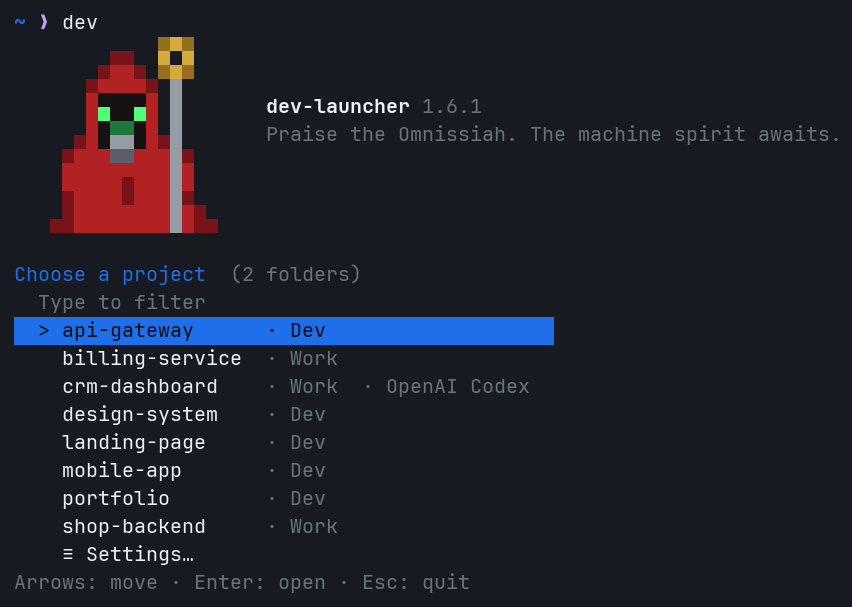
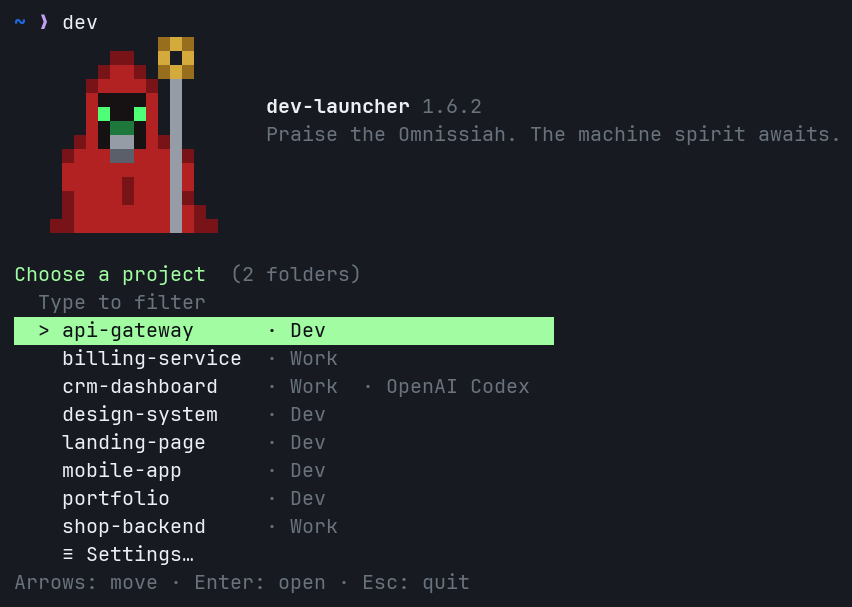
Color del menu: nuevo tema rojo y verde por defecto
Verde combina con los ojos de la mascota. Quien ya eligio un color lo conserva.
GIFs y capturas regenerados.

Changed region(s): [[0.0, 0.5041, 0.6714, 0.5931], [0.0305, 0.4448, 0.2441, 0.4745]]

diff --git a/lib/ajustes.js b/lib/ajustes.js
@@ -5,7 +5,7 @@
 
 const { MODOS, todosLosAgentes } = require('./agents');
 const cfg = require('./config');
-const { color, TEMAS, aplicarTema, menu, preguntar, selectorCarpetaNativo, abrirEnNavegador } = require('./ui');
+const { color, TEMAS, TEMA_POR_DEFECTO, aplicarTema, menu, preguntar, selectorCarpetaNativo, abrirEnNavegador } = require('./ui');
 const { t, fijarIdioma, detectarIdioma, idiomaActual, IDIOMAS, NOMBRES } = require('./i18n');
 const act = require('./actualizar');
 const pkg = require('../package.json');
@@ -165,7 +165,7 @@ async function menuConfiguracion(config) {
       { label: t('config.carpetas'), value: 'carpetas', hint: t('n.vinculadas', { n: config.carpetas.length }) },
       { label: t('config.agente'), value: 'agente', hint: agentes[config.agente].nombre },
       { label: t('config.modo'), value: 'modo', hint: textoModo(config.modo) },
-      { label: t('config.color'), value: 'color', hint: t('tema.' + (TEMAS[config.color] ? config.color : 'cian')) },
+      { label: t('config.color'), value: 'color', hint: t('tema.' + (TEMAS[config.color] ? config.color : TEMA_POR_DEFECTO)) },
       { label: t('config.orden'), value: 'orden', hint: t('orden.' + (config.orden || 'alfabetico')) },
       { label: t('config.idioma'), value: 'idioma', hint: textoIdioma(config) },
       { label: t('config.mascota'), value: 'mascota', hint: textoMascota(config) },
@@ -271,12 +271,12 @@ async function menuModo(config) {
 }
 
 async function menuColor(config) {
-  const actual = TEMAS[config.color] ? config.color : 'cian';
+  const actual = TEMAS[config.color] ? config.color : TEMA_POR_DEFECTO;
   const ids = Object.keys(TEMAS);
   const items = ids.map((id) => ({
     label: t('tema.' + id),
     value: id,
-    hint: id === 'cian' ? t('color.porDefecto') : id === 'sobrio' ? t('color.sobrio') : undefined,
+    hint: id === TEMA_POR_DEFECTO ? t('color.porDefecto') : id === 'sobrio' ? t('color.sobrio') : undefined,
   }));
   const id = await menu({
     titulo: t('color.titulo'),

diff --git a/lib/ui.js b/lib/ui.js
@@ -12,16 +12,19 @@ const usarColor = out.isTTY && !process.env.NO_COLOR;
 const c = (code) => (s) => (usarColor ? `\x1b[${code}m${s}\x1b[0m` : String(s));
 // Temas del menu: color de titulos (acento) y de la opcion seleccionada.
 // Texto negro sobre el color, y azul/magenta en sus tonos brillantes: en unas terminales esos
-// colores son oscuros y en otras pastel, y asi se leen bien en ambas.
+// colores son oscuros y en otras pastel, y asi se leen bien en ambas (igual el rojo).
+// El primero es el de por defecto: verde, como los ojos de la mascota.
 const TEMAS = {
-  cian: { acento: '36', seleccion: '30;46' },
   verde: { acento: '32', seleccion: '30;42' },
+  cian: { acento: '36', seleccion: '30;46' },
   azul: { acento: '94', seleccion: '30;104' },
   magenta: { acento: '95', seleccion: '30;105' },
   amarillo: { acento: '33', seleccion: '30;43' },
+  rojo: { acento: '91', seleccion: '30;101' },
   sobrio: { acento: '1', seleccion: '7' },
 };
-let tema = TEMAS.cian;
+const TEMA_POR_DEFECTO = 'verde';
+let tema = TEMAS[TEMA_POR_DEFECTO];
 
 const color = {
   cian: c('36'), verde: c('32'), amarillo: c('33'), rojo: c('31'), gris: c('90'), negrita: c('1'),
@@ -36,7 +39,7 @@ function profundidadColor() {
 }
 
 function aplicarTema(nombre) {
-  tema = TEMAS[nombre] || TEMAS.cian;
+  tema = TEMAS[nombre] || TEMAS[TEMA_POR_DEFECTO];
 }
 
 const HIDE = '\x1b[?25l';
@@ -254,4 +257,4 @@ function abrirEnNavegador(url) {
   }
 }
 
-module.exports = { color, TEMAS, aplicarTema, profundidadColor, menu, preguntar, selectorCarpetaNativo, abrirEnNavegador };
+module.exports = { color, TEMAS, TEMA_POR_DEFECTO, aplicarTema, profundidadColor, menu, preguntar, selectorCarpetaNativo, abrirEnNavegador };

diff --git a/lib/i18n.js b/lib/i18n.js
@@ -19,7 +19,7 @@ const TEXTOS = {
     'ayuda.color': 'Flechas: probar · Enter: guardar · Esc: volver sin cambiar',
     'ayuda.apoyar': 'Flechas: mover · Enter: abrir en el navegador · Esc: volver',
     'tema.cian': 'Cian', 'tema.verde': 'Verde', 'tema.azul': 'Azul',
-    'tema.magenta': 'Magenta', 'tema.amarillo': 'Amarillo', 'tema.sobrio': 'Sobrio',
+    'tema.magenta': 'Magenta', 'tema.amarillo': 'Amarillo', 'tema.rojo': 'Rojo', 'tema.sobrio': 'Sobrio',
 
     // modos y agentes
     'modo.elegir': 'Elegir una conversacion anterior',
@@ -206,7 +206,7 @@ Apoya el proyecto: ${apoyo}
     'ayuda.color': 'Arrows: try · Enter: save · Esc: back without changes',
     'ayuda.apoyar': 'Arrows: move · Enter: open in your browser · Esc: back',
     'tema.cian': 'Cyan', 'tema.verde': 'Green', 'tema.azul': 'Blue',
-    'tema.magenta': 'Magenta', 'tema.amarillo': 'Yellow', 'tema.sobrio': 'Plain',
+    'tema.magenta': 'Magenta', 'tema.amarillo': 'Yellow', 'tema.rojo': 'Red', 'tema.sobrio': 'Plain',
 
     'modo.elegir': 'Pick an earlier conversation',
     'modo.continuar': 'Continue the last conversation',

diff --git a/README.es.md b/README.es.md
@@ -169,7 +169,7 @@ En la configuración elige **Agentes personalizados → Agregar agente…** y es
 | Carpetas de proyectos | Vincula más carpetas de proyectos o desvincula una (desvincular nunca borra nada del disco). Con varias carpetas, el menú muestra de cuál viene cada proyecto. |
 | Agente por defecto | El agente de todos los proyectos que no tienen uno propio. |
 | Al abrir un proyecto | Preguntar cada vez (recomendado) o usar siempre la misma opción. |
-| Color del menu | Cian, verde, azul, magenta, amarillo o sobrio (sin color). Cada uno se ve al pasar por encima. |
+| Color del menu | Verde (el de por defecto), cian, azul, magenta, amarillo, rojo o sobrio (sin color). Cada uno se ve al pasar por encima. |
 | Orden de proyectos | Alfabético, o los últimos que abriste primero. |
 | Idioma | Automático (el de tu sistema), español o inglés. Cambia al instante. |
 | Mascota | Muestra u oculta el tech-priest de arriba del menú de proyectos. También se oculta solo en terminales chicas, sin color o con el tema sobrio. |

diff --git a/README.md b/README.md
@@ -171,7 +171,7 @@ Open the settings with the last option of the project menu, **"≡ Settings…"*
 | Project folders | Link more project folders or unlink one (unlinking never deletes anything from disk). With several folders, the menu shows which one each project comes from. |
 | Default agent | The agent for every project that doesn't have its own. |
 | When opening a project | Ask every time (recommended) or always use the same option. |
-| Menu color | Cyan, green, blue, magenta, yellow or plain (no color). You see each one as you move over it. |
+| Menu color | Green (the default), cyan, blue, magenta, yellow, red or plain (no color). You see each one as you move over it. |
 | Project order | Alphabetical, or the ones you opened last first. |
 | Language | Automatic (your system's), English or Spanish. It changes right away. |
 | Mascot | Show or hide the tech-priest above the project menu. It also hides itself on small terminals, without color or with the plain theme. |
